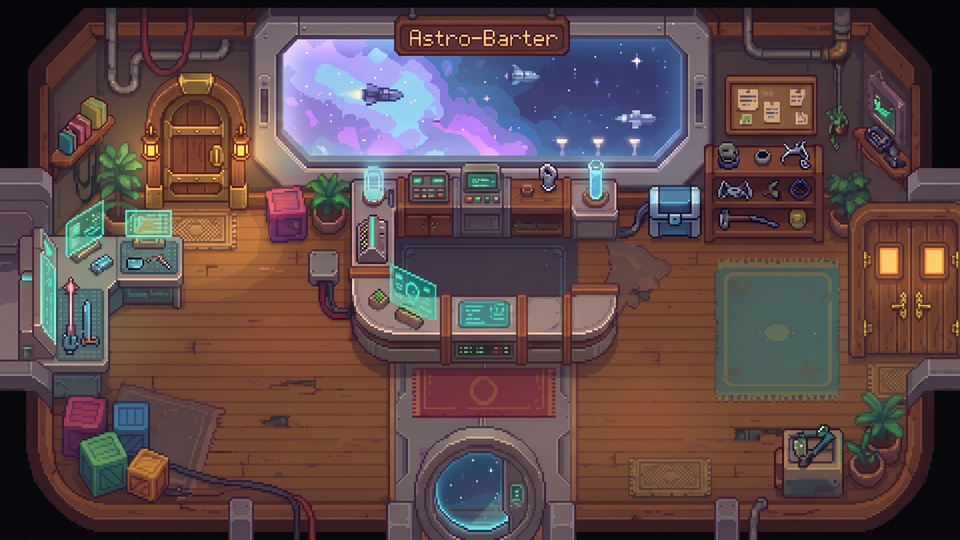
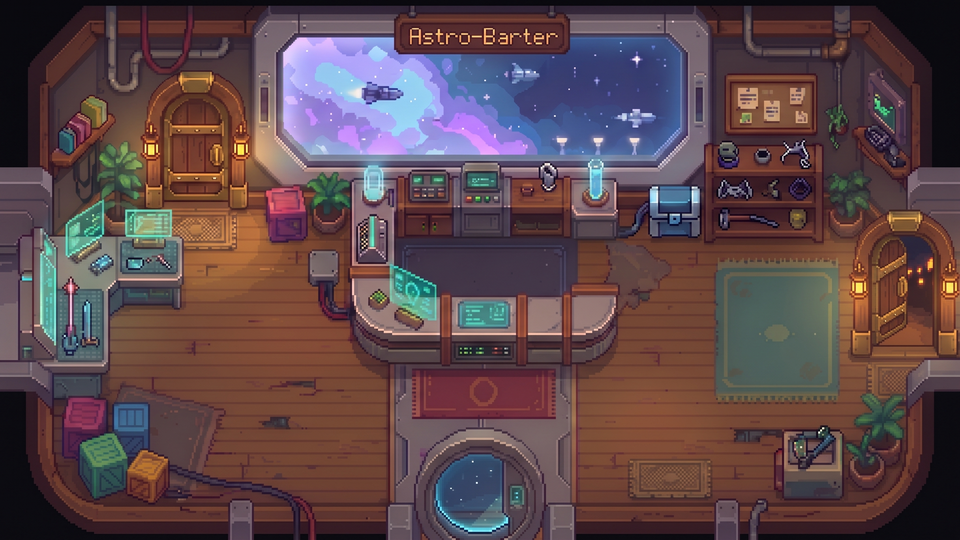
fix(laden): Ausgangstür als eingelassener Holz-Durchgang in der Wand, entwickelt sich mit den Laden-Stufen (Holz → Messing/Markise → Gold/Kristall)
Claude-Session: https://claude.ai/code/session_016nKYwkpeUHJGHpF5xe8T1D

diff --git a/src/scenes/ShopScene.ts b/src/scenes/ShopScene.ts
@@ -1470,7 +1470,8 @@ export class ShopScene {
     drawGlow(ctx, 240, 156, 24, '#38e8d4', 0.12 + nightBoost + pulse * 0.06);
     drawGlow(ctx, 64, 132, 32, '#38e8d4', 0.16 + nightBoost + pulse * 0.08);
     drawGlow(ctx, BACKROOM_DOOR_POS.x, BACKROOM_DOOR_POS.y - 12, 22, '#fbbf24', 0.2 + nightBoost + pulse * 0.08);
-    drawGlow(ctx, 444, 152, 42 + pulse * 6, '#38e8d4', 0.28 + nightBoost + pulse * 0.14);
+    // Ausgangstür (Holz, rechte Wand): warmes Laternen-/Hallenlicht statt Portal-Schein
+    drawGlow(ctx, 448, 150, 26 + pulse * 3, '#fbbf24', 0.16 + nightBoost + pulse * 0.07);
 
     // Backroom Doorway mounted flush on upper-left wall (leading to Captain's Quarters!)
     this.renderBackroomDoor(ctx, pulse);
